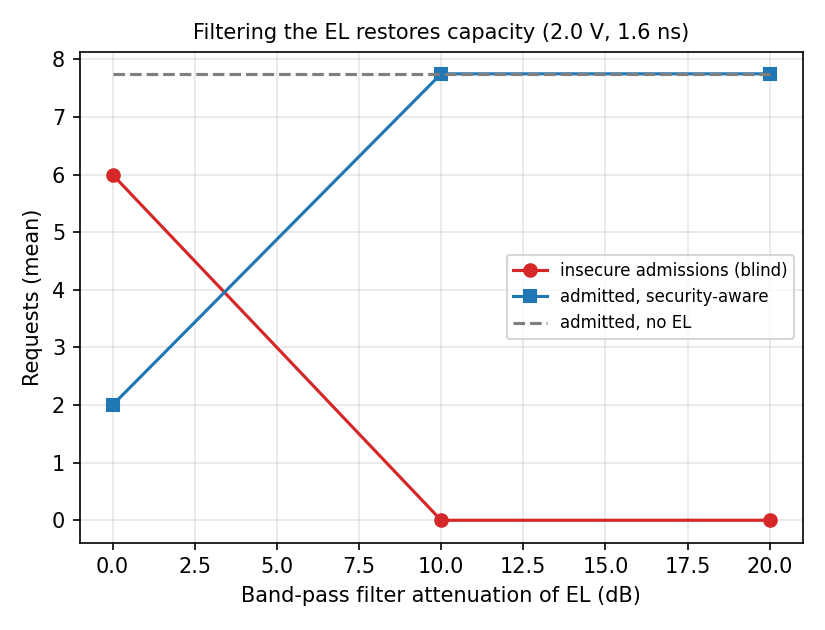
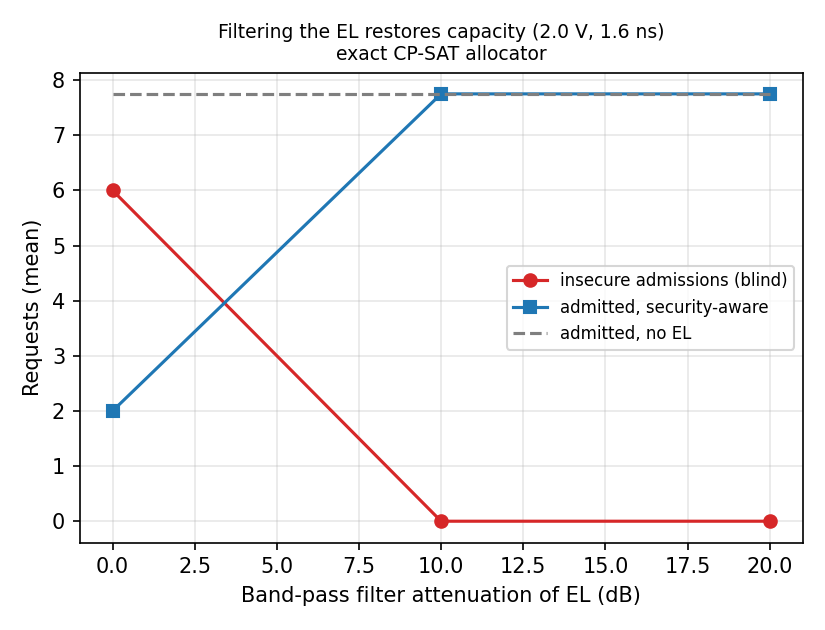
Use one explicit reference allocator in the parasitic-emission summary
Without OR-Tools the headline summary averaged every allocator while the
figures still said "exact CP-SAT". Select a single REFERENCE allocator
(cp_sat_exact, else congestion_aware_greedy), never mix allocators, label
figures from it, and record it in a reference_allocator CSV column.

diff --git a/QNet_Sim/experiments/run_parasitic_emission.py b/QNet_Sim/experiments/run_parasitic_emission.py
@@ -37,6 +37,12 @@ ALLOCATORS = ["utility_per_resource_greedy", "congestion_aware_greedy", "greedy_
 if "cp_sat_exact" in ALL_BASELINES:
     ALLOCATORS.append("cp_sat_exact")
 
+# Single allocator used for the headline summary and figures.  The exact CP-SAT
+# solver when OR-Tools is installed; otherwise a fixed heuristic, never a mix.
+REFERENCE = "cp_sat_exact" if "cp_sat_exact" in ALLOCATORS else "congestion_aware_greedy"
+REFERENCE_LABEL = ("exact CP-SAT allocator" if REFERENCE == "cp_sat_exact"
+                   else f"{REFERENCE} (OR-Tools unavailable; not exact)")
+
 TOPOLOGIES = {
     "chain8": lambda: generate_chain_topology(8, edge_capacity=4, memory_capacity=8, raw_fidelity=0.92),
     "grid3x3": lambda: generate_grid_topology(3, 3, edge_capacity=4, memory_capacity=8, raw_fidelity=0.92),
@@ -127,15 +133,19 @@ def _summarize(rows, keys):
 def aggregate(rows):
     """Summaries per (operating point, filter, scenario).
 
-    The headline summary uses the exact CP-SAT allocator when available: the
-    greedy heuristics reorder their picks under ~1e-6 utility perturbations, so
+    The headline summary uses the single ``REFERENCE`` allocator (exact CP-SAT
+    when OR-Tools is installed, else ``congestion_aware_greedy``); allocators are
+    never averaged together.  The greedy heuristics reorder their picks under ~1e-6 utility perturbations, so
     their means carry a tie-break noise floor (reported separately per
     allocator).
     """
-    ref = "cp_sat_exact" if "cp_sat_exact" in ALLOCATORS else None
-    ref_rows = [r for r in rows if ref is None or r["allocator"] == ref]
+    ref_rows = [r for r in rows if r["allocator"] == REFERENCE]
+    if not ref_rows:
+        raise RuntimeError(f"reference allocator {REFERENCE!r} produced no rows")
     keys = ["operating_point", "filter_db", "scenario"]
     out = _summarize(ref_rows, keys)
+    for row in out:
+        row["reference_allocator"] = REFERENCE
     _write(os.path.join(OUT, "parasitic_network_summary.csv"), out)
     _write(os.path.join(OUT, "parasitic_network_by_allocator.csv"),
            _summarize(rows, ["allocator"] + keys))
@@ -202,7 +212,7 @@ def figures(rate_rows, agg):
     axes[0].set_ylim(0, 10)
     axes[0].legend(fontsize=8, title="scenario", ncol=3, loc="upper center")
     fig.suptitle("Network-level effect of VOA parasitic emission "
-                 "(no filter; exact CP-SAT allocator, mean over topologies and seeds)", fontsize=10)
+                 f"(no filter; {REFERENCE_LABEL}, mean over topologies and seeds)", fontsize=10)
     fig.tight_layout()
     p = os.path.join(FIG, "parasitic_network.png")
     fig.savefig(p, dpi=150)
@@ -222,7 +232,8 @@ def figures(rate_rows, agg):
                          for f in FILTERS_DB], "--", color="#7f7f7f", label="admitted, no EL")
     ax.set_xlabel("Band-pass filter attenuation of EL (dB)")
     ax.set_ylabel("Requests (mean)")
-    ax.set_title(f"Filtering the EL restores capacity ({worst})", fontsize=10)
+    ax.set_title(f"Filtering the EL restores capacity ({worst})\n{REFERENCE_LABEL}",
+                 fontsize=9)
     ax.legend(fontsize=8)
     ax.grid(alpha=0.3)
     fig.tight_layout()

diff --git a/README.md b/README.md
@@ -159,7 +159,10 @@ python experiments/run_parasitic_emission.py   # ~1 min; writes results/experime
 PYTHONPATH=src python -m pytest tests/test_parasitic_emission.py tests/test_parasitic_network.py -v
 ```
 
-Headline (exact CP-SAT allocator, 2 topologies x 10 seeds, link lengths 2-30 km):
+Headline (exact CP-SAT allocator, 2 topologies x 10 seeds, link lengths 2-30 km;
+without OR-Tools the runner uses `congestion_aware_greedy` instead and labels the
+figures and the `reference_allocator` CSV column accordingly, so those numbers
+are not exact):
 the fidelity effect is small (utility -0.1 / -1.7 / -6.1 % across the paper's three
 operating points), but at 2.0 V / 1.6 ns a security-blind allocator routes 6.0 of
 7.45 admitted requests over insecure links, and a security-aware one admits only
